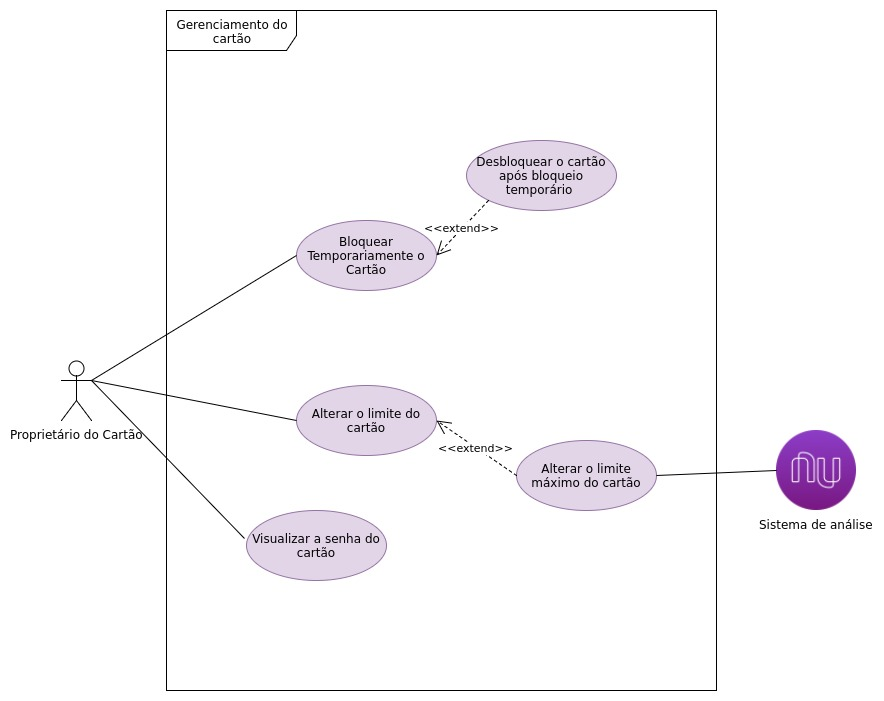
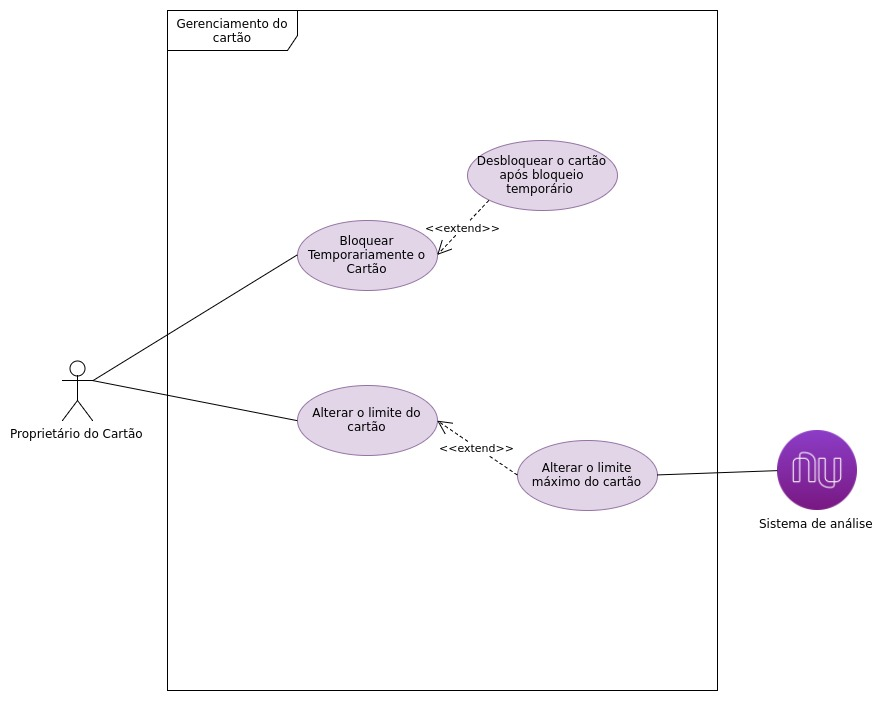
Texto complementar sobre diagramas específicos

diff --git a/siki/caso-de-uso.html b/siki/caso-de-uso.html
@@ -73,6 +73,19 @@
                                         <p><i>Autores: Clarissa Borges, Felipe Hargreaves, Isaque Alves, Mariana Pícolo, Sannya Arvelos.<br>Elaborado em: 19/09/2017 </i></p>
                                         <p><i>Fontes:<a class="scrollto" href="#referencias"> [1]</a></i></p>
                                     <br/>
+                                    <h3>Diagramas de subsistemas</h3>
+                                        <p align="justify">
+                                            Em complemento ao diagrama geral, foram produzidos outros três
+                                            diagramas, com foco em subsistemas distintos da aplicação, sendo estes:
+                                        </p>
+                                        <ul>
+                                            <li> Gerenciamento de Faturas </li>
+                                            <li> Gerenciamento do Cartão </li>
+                                            <li> Gerenciamento de Compras </li>
+                                        </ul>
+                                        <p align="justify">
+                                            É importante destacar que nem todos os elementos representados nos diagramas a seguir possuem especificação ou representação em artefatos subsequentes. Parte deles se encontra inclusa em fluxos alternativos de casos de uso mais gerais, enquanto outros se referem a funcionalidades de aspecto complementar. O artefato principal para a manutenção e rastro dos requisitos continua sendo a visão geral, com os diagramas específicos apresentando apenas visões adicionais.     
+                                        </p>
                                     <h4> Subsistema 01 - Gerenciamento de Faturas </h4>
                                         <p align="justify">&emsp;&emsp;Diagrama especializado em funcionalidades 
                                         relacionadas à visualização e manipulação de faturas do cartão.</p>
